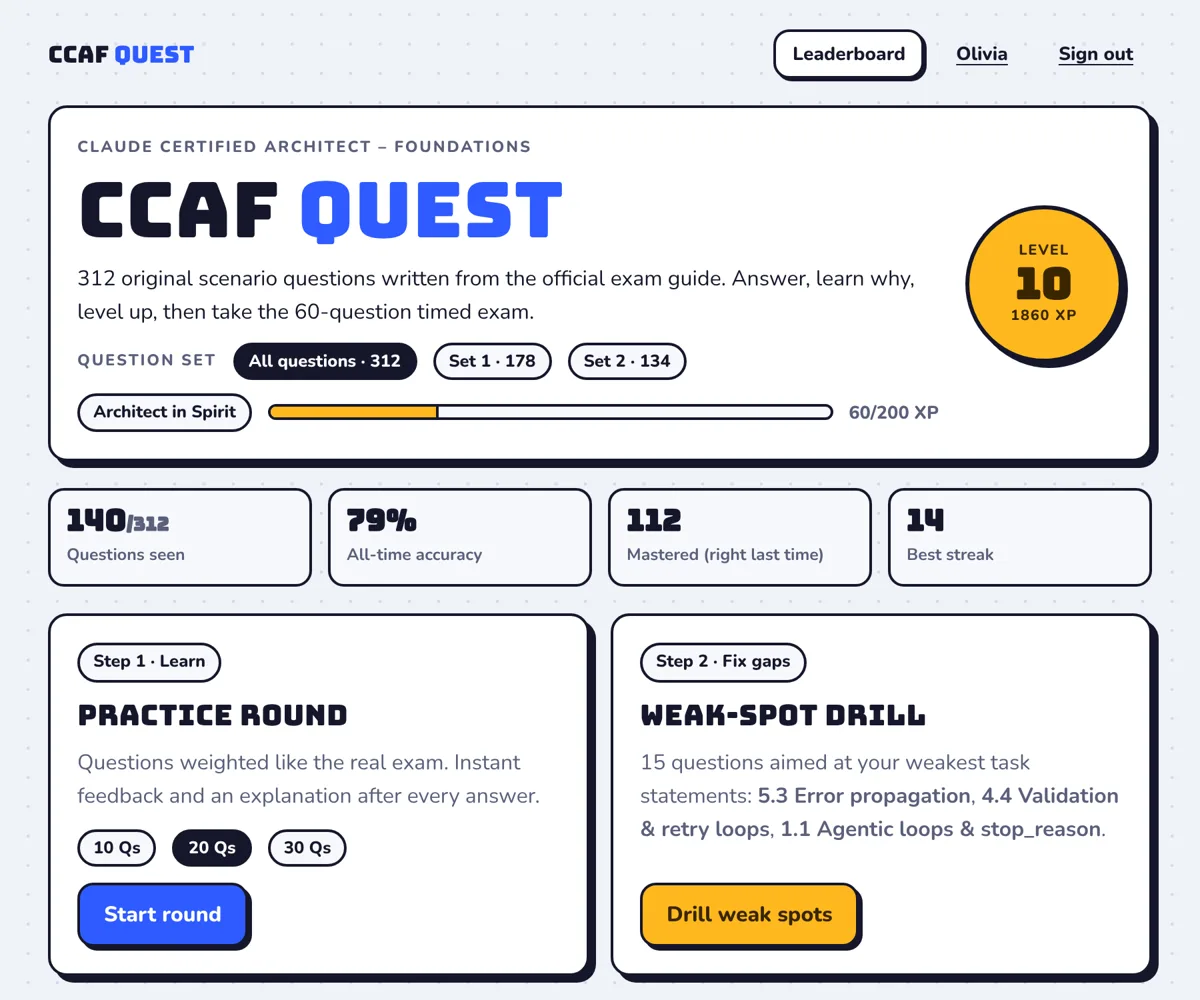
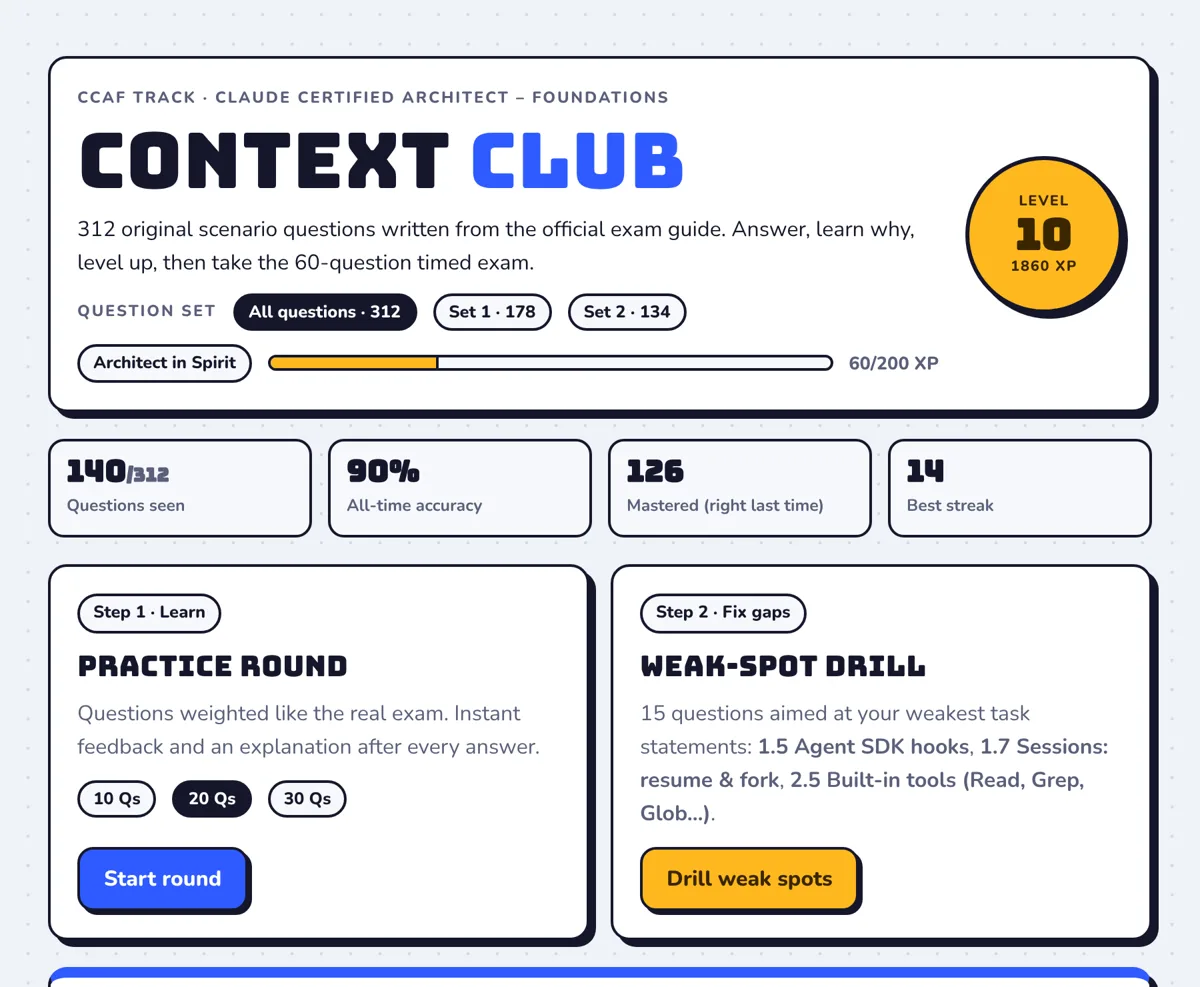
Rename featured project to Context Club

Changed region(s): [[0.0308, 0.0304, 0.9867, 1.0]]

diff --git a/index.html b/index.html
@@ -268,7 +268,7 @@ footer { text-align: center; }
         <path class="wire" d="M170 72 V118" />
         <path class="wire" d="M170 172 V218" />
         <path class="wire" d="M270 245 C 330 245, 330 45, 270 45" />
-        <g class="node" data-say="Every project starts with a real person and a real frustration. For CCAF Quest, it was study material scattered everywhere and no way to see weak spots.">
+        <g class="node" data-say="Every project starts with a real person and a real frustration. For Context Club, it was study material scattered everywhere and no way to see weak spots.">
           <rect class="box" x="70" y="20" width="200" height="52" rx="10" />
           <text class="t" x="170" y="44" text-anchor="middle">Problem</text>
           <text class="s" x="170" y="61" text-anchor="middle">who, and what hurts</text>
@@ -294,14 +294,14 @@ footer { text-align: center; }
   <section id="work" data-part="featured project">
     <div class="head">
       <span class="mono">Sheet 01 · Featured project</span>
-      <h2>CCAF Quest</h2>
-      <p>A free study site for the Claude Certified Architect – Foundations exam, built for my study group and open to anyone.</p>
+      <h2>Context Club</h2>
+      <p>Free, gamified practice for tech exams, built for my study group and open to anyone. The first track covers the Claude Certified Architect – Foundations (CCAF) exam.</p>
     </div>
 
     <article class="sheet" data-part="project card">
       <div class="sheet-top">
         <div class="dots" aria-hidden="true"><i></i><i></i><i></i></div>
-        <div class="tabs" role="tablist" aria-label="CCAF Quest views">
+        <div class="tabs" role="tablist" aria-label="Context Club views">
           <button class="tab" role="tab" id="t-app" aria-selected="true" aria-controls="v-app">The app</button>
           <button class="tab" role="tab" id="t-board" aria-selected="false" aria-controls="v-board">Leaderboard</button>
           <button class="tab" role="tab" id="t-arch" aria-selected="false" aria-controls="v-arch">How it's built</button>
@@ -325,10 +325,10 @@ footer { text-align: center; }
         </div>
 
         <div class="view" role="tabpanel" id="v-app" aria-labelledby="t-app">
-          <img src="img/ccaf-home.webp" alt="CCAF Quest home screen showing level 10, 79% accuracy and the practice, weak-spot and exam modes" width="1200" height="1000">
+          <img src="img/ccaf-home.webp" alt="Context Club home screen showing level 10, accuracy stats and the practice, weak-spot and exam modes" width="1200" height="987">
         </div>
         <div class="view" role="tabpanel" id="v-board" aria-labelledby="t-board" hidden>
-          <img src="img/ccaf-leaderboard.webp" alt="CCAF Quest leaderboard in dark mode, ranking study group players by XP" width="1200" height="748">
+          <img src="img/ccaf-leaderboard.webp" alt="Context Club leaderboard in dark mode, ranking study group players by XP" width="1200" height="666">
         </div>
         <div class="view" role="tabpanel" id="v-arch" aria-labelledby="t-arch" hidden>
           <div class="arch">
